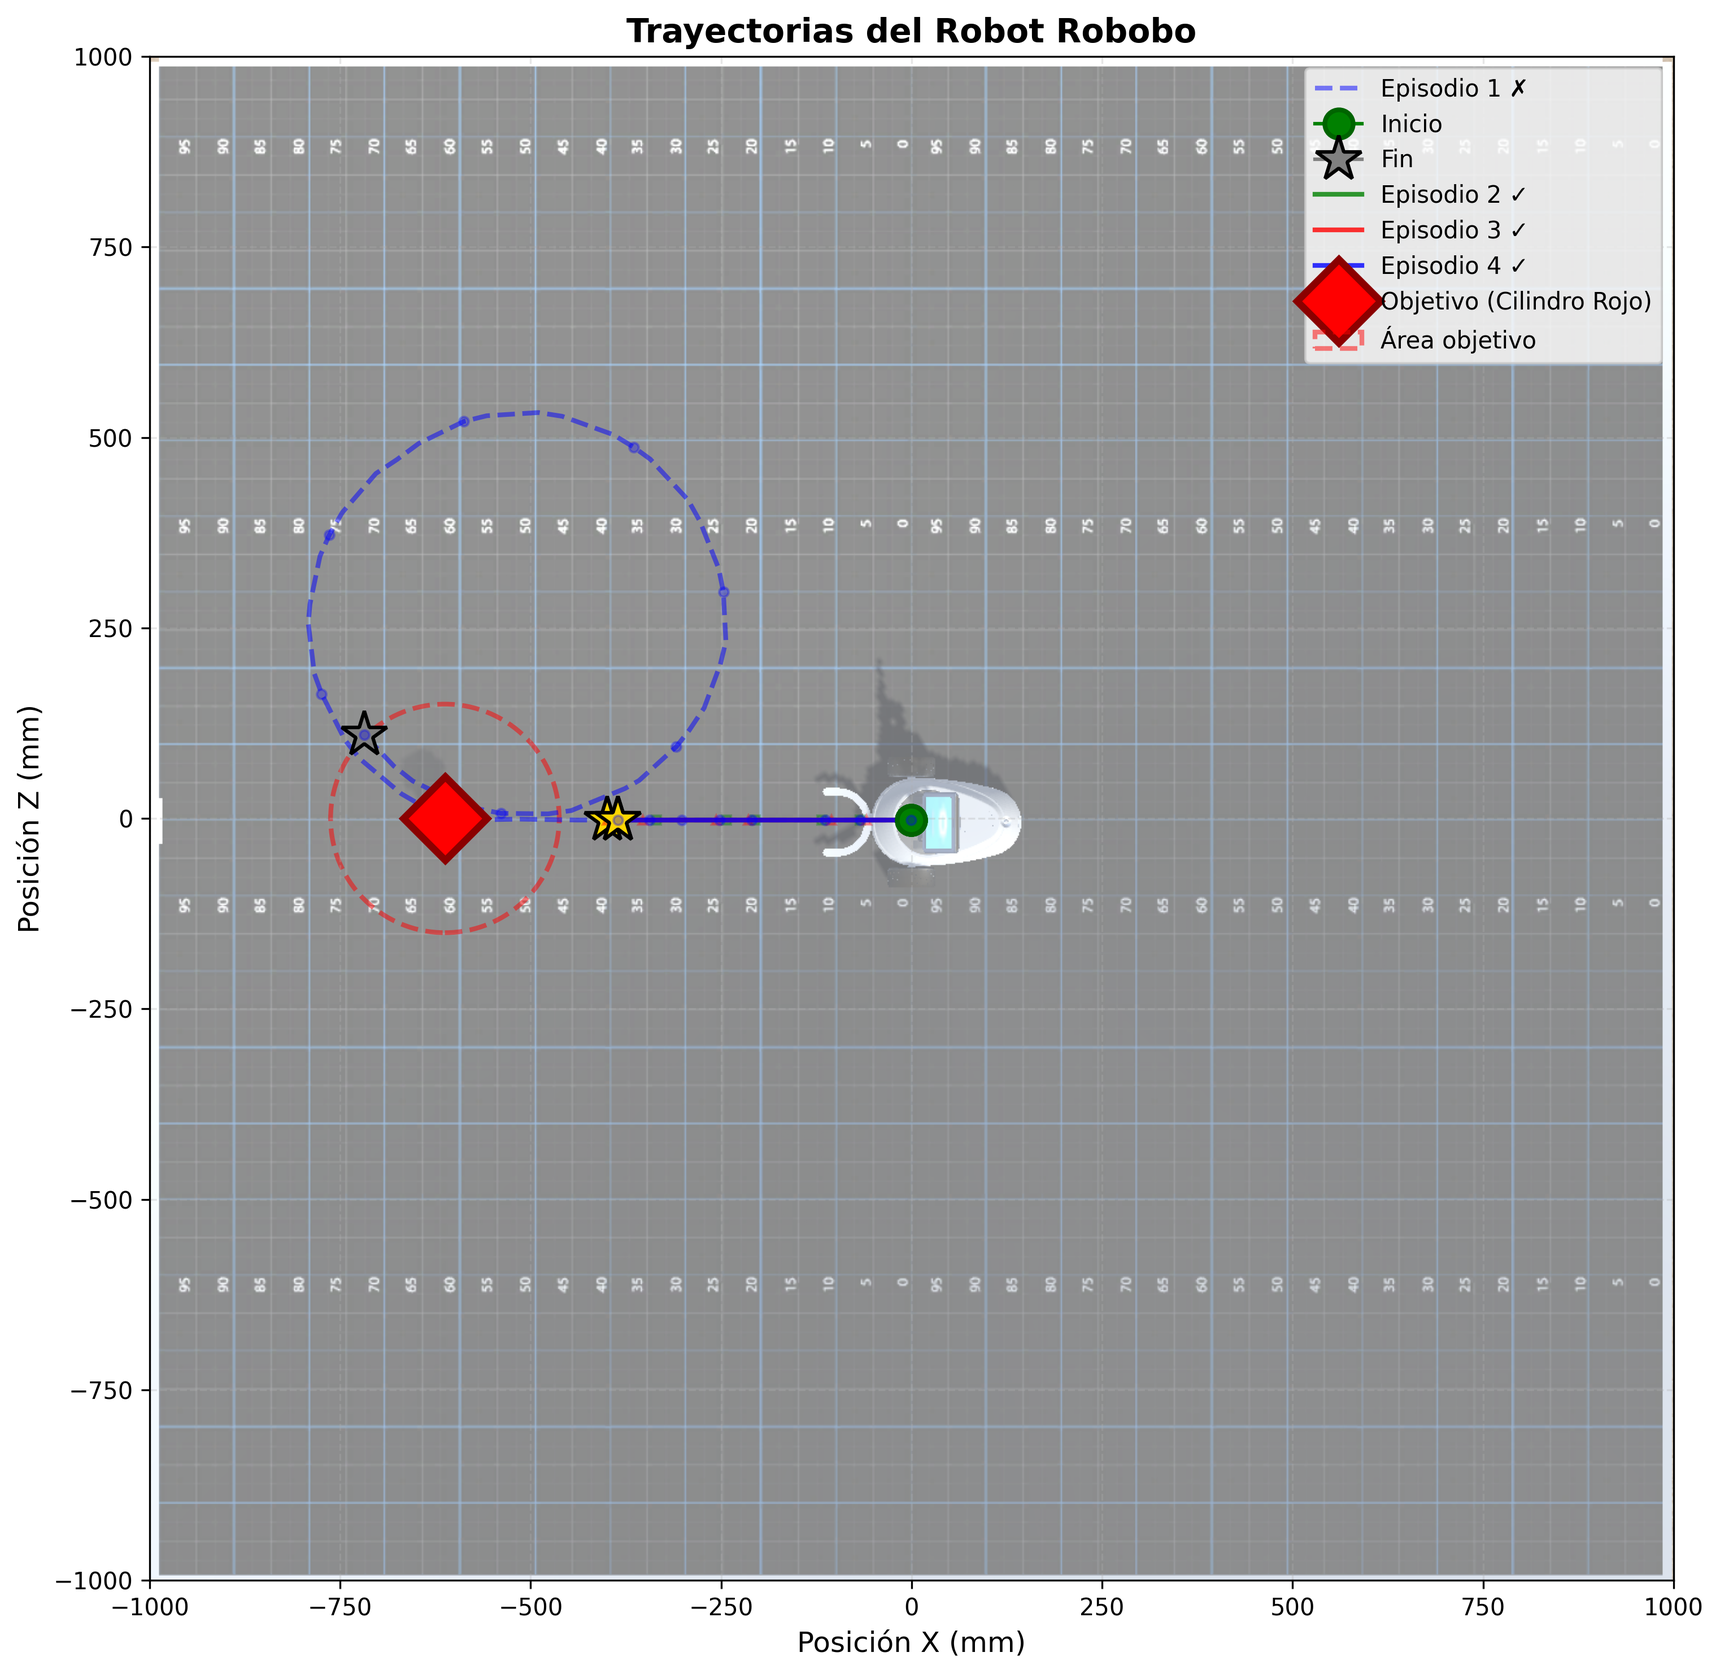
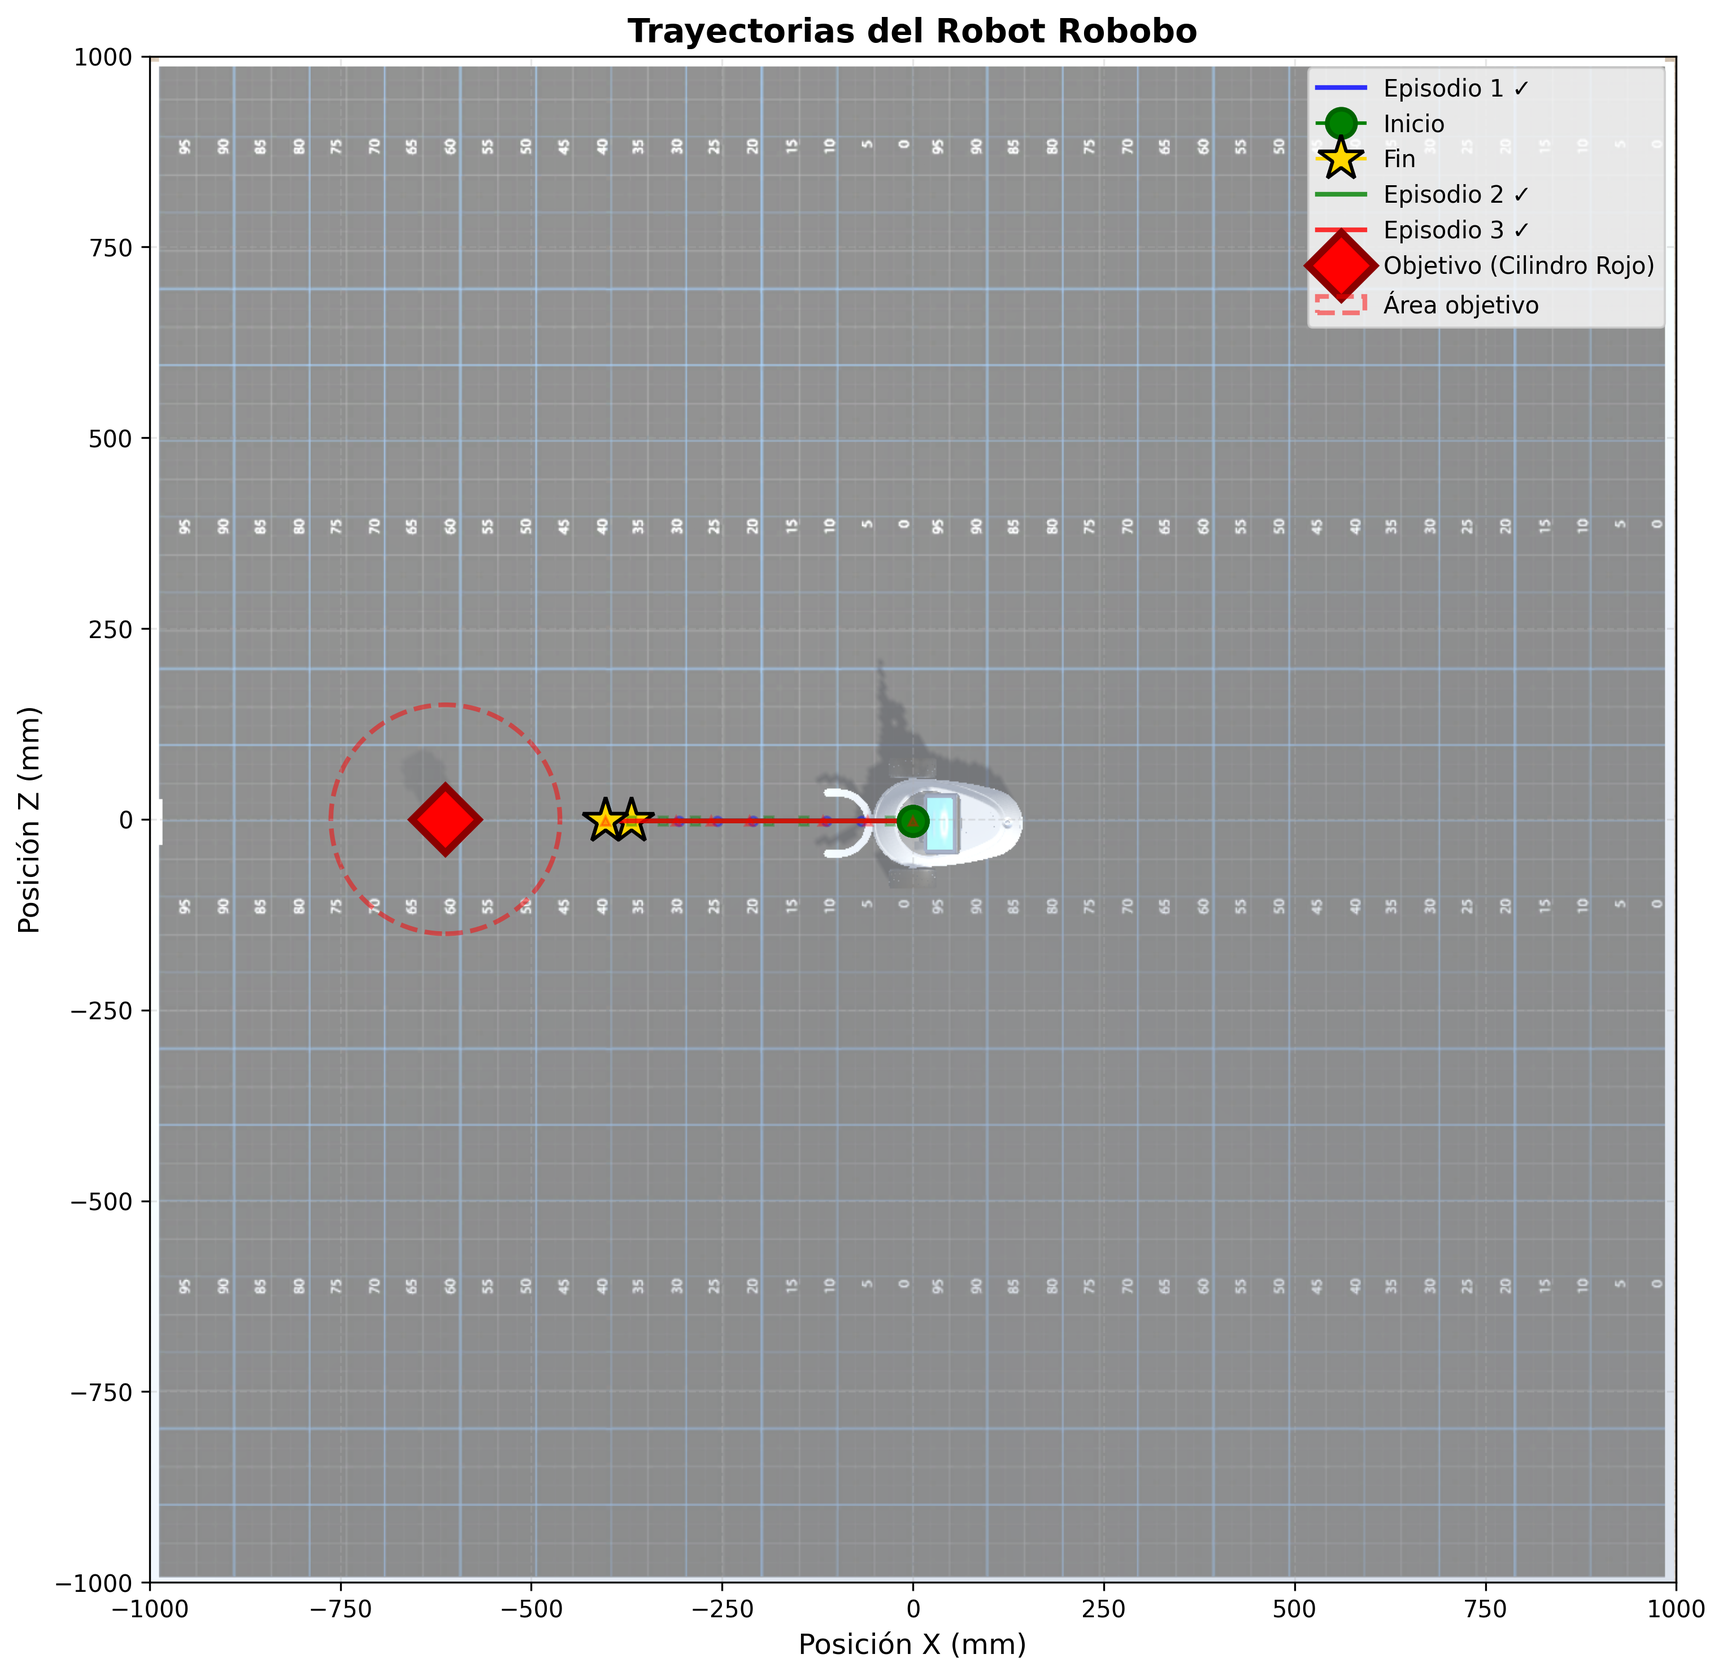
Correcciones codigo

diff --git a/practica2/p23/neat_train_232.py b/practica2/p23/neat_train_232.py
@@ -9,7 +9,7 @@ from main_neat_avoid_232 import RoboboNEATAvoidEnv23
 
 # === Configuración de directorios ===
 timestamp = datetime.now().strftime("%Y%m%d_%H%M%S")
-log_dir = f"practica2/2.3/neat_logs_2.3.2/{timestamp}/"
+log_dir = f"practica2/p23/neat_logs_2.3/{timestamp}/"
 models_dir = f"{log_dir}models/"
 graphs_dir = f"{log_dir}graphs/"
 os.makedirs(models_dir, exist_ok=True)
@@ -71,10 +71,10 @@ def eval_genome(genome, config):
         if unique_actions <= 2:
             total -= 30.0
             
-        print(f"   ✅ Fitness: {total:.2f} | Acciones únicas: {unique_actions}/8")
+        print(f"Fitness: {total:.2f} | Acciones únicas: {unique_actions}/8")
             
     except Exception as e:
-        print(f"❌ Error evaluando genoma: {e}")
+        print(f"Error evaluando genoma: {e}")
         total = -100.0
     finally:
         try:
@@ -95,22 +95,22 @@ def eval_genomes(genomes, config):
     Imprime el fitness de cada individuo justo tras su evaluación.
     """
     for i, (gid, genome) in enumerate(genomes, start=1):
-        print(f"\n🚀 Evaluando individuo {i}/{len(genomes)} (ID {gid}) ...")
+        print(f"\nEvaluando individuo {i}/{len(genomes)} (ID {gid}) ...")
         try:
             genome.fitness = eval_genome(genome, config)
             # Asegurar que el fitness no sea None
             if genome.fitness is None:
                 genome.fitness = -200.0
-                print(f"⚠ Fitness None detectado, asignado: {genome.fitness:.2f}")
+                print(f"Fitness None detectado, asignado: {genome.fitness:.2f}")
             else:
-                print(f"✅ Resultado final individuo {gid}: Fitness = {genome.fitness:.2f}")
+                print(f"Resultado final individuo {gid}: Fitness = {genome.fitness:.2f}")
         except Exception as e:
-            print(f"❌ Error crítico evaluando genoma {gid}: {e}")
+            print(f"Error crítico evaluando genoma {gid}: {e}")
             genome.fitness = -200.0  # Asignar fitness muy bajo en caso de error
         print("-" * 60)
     
     # VERIFICACIÓN FINAL: Asegurar que TODOS los genomas tienen fitness válido
-    for gid, genome in genomes:
+    for gid, genome in genomes: 
         if genome.fitness is None:
             print(f" ALERTA: Genoma {gid} aún tiene fitness None. Asignando -200.0")
             genome.fitness = -200.0
@@ -167,49 +167,48 @@ def run(config_file, generations=10, previous_best_genome_path=None):
             
             # IMPORTANTE: Evaluar inmediatamente para evitar fitness None
             print(f"\n{'='*60}")
-            print(f"🔄 EVALUANDO GENOMA CARGADO (ID: {genome_id})...")
+            print(f"EVALUANDO GENOMA CARGADO (ID: {genome_id})...")
             print(f"{'='*60}")
             new_genome.fitness = eval_genome(new_genome, config)
             print(f"{'='*60}")
-            print(f"✅ GENOMA ANTERIOR EVALUADO: Fitness = {new_genome.fitness:.2f}")
+            print(f"GENOMA ANTERIOR EVALUADO: Fitness = {new_genome.fitness:.2f}")
             print(f"{'='*60}\n")
             
             # Añadir a la población (no reemplazar)
             p.population[genome_id] = new_genome
             
-            print(f"✅ Mejor genoma anterior añadido a la población inicial")
+            print(f"Mejor genoma anterior añadido a la población inicial")
             print(f"   Tamaño población actual: {len(p.population)} genomas\n")
         except Exception as e:
-            print(f"⚠ Error al cargar genoma anterior: {e}")
+            print(f"Error al cargar genoma anterior: {e}")
             print("Continuando sin genoma previo...")
             import traceback
             traceback.print_exc()
     
-    # CRÍTICO: Evaluar toda la población inicial para evitar fitness None
-    print("\n🔄 Evaluando población inicial completa...")
+
+    print("\nEvaluando población inicial completa...")
     initial_genomes = list(p.population.items())
     for gid, genome in initial_genomes:
         if genome.fitness is None:
             # Identificar si es el genoma cargado
             if gid == loaded_genome_id:
-                print(f"  ⏭ Genoma {gid} (CARGADO) ya evaluado - saltando")
+                print(f"Genoma {gid} (CARGADO) ya evaluado - saltando")
                 continue
             genome.fitness = eval_genome(genome, config)
-            print(f"  ✅ Genoma {gid} evaluado: Fitness = {genome.fitness:.2f}")
-    print("✅ Población inicial completamente evaluada\n")
+            print(f"Genoma {gid} evaluado: Fitness = {genome.fitness:.2f}")
+    print("Población inicial completamente evaluada\n")
     
-    # CRÍTICO: Re-especiar después de añadir el genoma cargado
     if loaded_genome_id is not None:
-        print("🔄 Re-especiando población con genoma cargado...")
+        print("Re-especiando población con genoma cargado...")
         p.species.speciate(config, p.population, p.generation)
-        print("✅ Especiación actualizada\n")
+        print("Especiación actualizada\n")
     
     p.add_reporter(neat.StdOutReporter(True))
     stats = neat.StatisticsReporter()
     p.add_reporter(stats)
     p.add_reporter(neat.Checkpointer(5, filename_prefix=f"{models_dir}neat-checkpoint-"))
 
-    print("\n🧠 Iniciando evolución con NEAT (Práctica 2.3)...")
+    print("\nIniciando evolución con NEAT (Práctica 2.3)...")
     print(f"Generaciones: {generations}")
     print(f"Tamaño población inicial: {config.pop_size}")
     print(f"Elitism: {config.reproduction_config.elitism}")
@@ -220,8 +219,8 @@ def run(config_file, generations=10, previous_best_genome_path=None):
     with open(f"{models_dir}best_genome.pkl", "wb") as f:
         pickle.dump(winner, f)
 
-    print("\n✅ Evolución completada!")
-    print(f"🏆 Mejor fitness alcanzado: {winner.fitness:.2f}")
+    print("\nEvolución completada!")
+    print(f"Mejor fitness alcanzado: {winner.fitness:.2f}")
 
     with open(f"{log_dir}stats.pkl", "wb") as f:
         pickle.dump(stats, f)
@@ -232,11 +231,10 @@ def run(config_file, generations=10, previous_best_genome_path=None):
 # === MAIN ===
 if __name__ == "__main__":
   
-    config_path = "practica2/2.3/config-feedforwardmod"
+    config_path = "practica2/p23/config-feedforwardmod"
     if not os.path.exists(config_path):
         raise FileNotFoundError(f"No se encuentra config: {config_path}")
 
-    previous_best = "practica2/2.3/neat_logs_2.3.2/20251106_160516/models/best_genome_extracted.pkl"
-    # previous_best = "practica2/2.3/neat_logs_2.3.2/20251106_123456/models/best_genome.pkl"
+    previous_best = "practica2/p23/neat_logs_2.3.2/20251106_160516/models/best_genome_extracted.pkl"
     
     run(config_path, generations=10, previous_best_genome_path=previous_best)

diff --git a/practica2/p22/main_neat.py b/practica2/p22/main_neat.py
@@ -28,7 +28,6 @@ class RoboboNEATEnv(gym.Env):
         self.robobo.setActiveBlobs(red=True, green=False, blue=False, custom=False)
         self.sim.setRobotLocation(0, {'x': -1000.0, 'y': 39.0, 'z': -400.0})
 
-        # NEAT necesita entradas continuas (no estados discretos)
         # Entradas: [blob_x, blob_size, ir_front_c, ir_front_l, ir_front_r]
         self.observation_space = spaces.Box(
             low=np.array([0.0, 0.0, 0.0, 0.0, 0.0]),
@@ -153,7 +152,7 @@ class RoboboNEATEnv(gym.Env):
         
         if terminated:
             print("¡OBJETIVO ALCANZADO!")
-            reward += 100  # Bonus por completar (reducido de 500 para mejor gradiente)
+            reward += 100  # Bonus por completar
         
         # Verificar condiciones de terminación por tiempo
         truncated = self.steps >= self.max_steps
@@ -185,7 +184,7 @@ class RoboboNEATEnv(gym.Env):
 
         reward = 0.0
         
-        # Recompensa base inversamente proporcional a la distancia (más agresiva)
+        # Recompensa base inversamente proporcional a la distancia 
         max_distance = 2000.0
         distance_reward = 25.0 * (1.0 - min(distance / max_distance, 1.0))
         reward += distance_reward
@@ -200,22 +199,22 @@ class RoboboNEATEnv(gym.Env):
             mega_bonus = (250 - distance) / 10.0  # Hasta +25 puntos adicionales
             reward += mega_bonus
         
-        # Recompensa por ver el blob (crítico para orientación)
+        # Recompensa por ver el blob
         if blob.size > self.BLOB_SIZE_MIN:
             reward += 8.0  # Aumentado de 5.0
             
             # Recompensa progresiva por tamaño (proximidad visual)
-            size_reward = min(blob.size / 25.0, 15.0)  # Máximo 15 puntos (antes 10)
+            size_reward = min(blob.size / 25.0, 15.0)  # Máximo 15 puntos
             reward += size_reward
             
-            # Recompensa crítica por centrar el blob (navegación correcta)
+            # Recompensa crítica por centrar el blob 
             center_error = abs(blob.posx - 50.0)
             if center_error < 10:
-                reward += 10.0  # Muy centrado (antes 8.0)
+                reward += 10.0  # Muy centrado
             elif center_error < 20:
-                reward += 5.0   # Bastante centrado (antes 4.0)
+                reward += 5.0   # Bastante centrado
             elif center_error < 30:
-                reward += 2.5   # Algo centrado (antes 2.0)
+                reward += 2.5   # Algo centrado
             else:
                 # Penalización progresiva por descentrado
                 reward -= center_error / 25.0
@@ -224,7 +223,7 @@ class RoboboNEATEnv(gym.Env):
             # Penalización moderada si no ve el objetivo
             reward -= 5.0
         
-        # Penalización por obstáculos (evitar colisiones)
+        # Penalización por obstáculos
         if ir_front > self.OBSTACLE_THRESHOLD_FRONT and blob.size < self.BLOB_SIZE_GOAL:
             reward -= 10.0  # Aumentado de 8.0
         

diff --git a/practica2/p23/main_neat_avoid_232.py b/practica2/p23/main_neat_avoid_232.py
@@ -37,7 +37,7 @@ class RoboboNEATAvoidEnv23(gym.Env):
         self.max_steps = max_steps
 
   
-        self.OBSTACLE_THRESHOLD_FRONT = 40   #
+        self.OBSTACLE_THRESHOLD_FRONT = 40  
         self.OBSTACLE_THRESHOLD_SIDE  = 300
         self.BLOB_SIZE_MIN            = 2
         self.BLOB_SIZE_GOAL           = 300
@@ -104,7 +104,6 @@ class RoboboNEATAvoidEnv23(gym.Env):
         blob_size = min(blob.size, 500.0)
 
         state = np.array([blob_x, blob_size, ir_c, ir_l, ir_r], dtype=np.float32)
-        # print("Estado:", state) 
         return state
 
     def _is_at_goal(self):
@@ -169,7 +168,7 @@ class RoboboNEATAvoidEnv23(gym.Env):
         # Terminación
         terminated = self._is_at_goal()
         if terminated:
-            print("🎯 ¡OBJETIVO ALCANZADO! 🎯")
+            print("¡OBJETIVO ALCANZADO!")
             reward += 500
 
         truncated = self.steps >= self.max_steps
@@ -232,14 +231,14 @@ class RoboboNEATAvoidEnv23(gym.Env):
                 # Penalización fuerte si no ve el objetivo
                 reward -= 1.0
             
-            # Penalización por estar muy cerca de obstáculos (excepto el objetivo)
+            # Penalización por estar muy cerca de obstáculos
             if ir_front > self.OBSTACLE_THRESHOLD_FRONT:
-                reward += 0.05
+                reward -= 0.05
             
-            # Penalización muy pequeña por cada paso (menos énfasis en rapidez)
+            # Penalización muy pequeña por cada paso
             reward -= 0.05
 
-            # Recompensa por acercarse al objetivo (menor distancia)
+            # Recompensa por acercarse al objetivo
             if distance > 0:
                 reward += 500.0 / distance  # Más cerca = mayor recompensa
 

diff --git a/practica2/test3.py b/practica2/test3.py
@@ -18,18 +18,18 @@ from p23.main_ppo import RoboboEnv # entorno AR
 # CONFIG
 # ============================================================
 
-GENOME_PATH = os.path.join(os.path.dirname(__file__), 'p23', 'neat_logs_2.3.2', 'definitivo', 'models', 'best_genome_extracted.pkl')
+GENOME_PATH = os.path.join(os.path.dirname(__file__), 'p23', 'neat', 'models', 'best_genome_extracted.pkl')
 
 CONFIG_PATH = os.path.join(os.path.dirname(__file__), 'p23', 'config-feedforward')
 PPO_MODEL_PATH = os.path.join(os.path.dirname(__file__),'p23', 'best_model.zip')
 
 NUM_EPISODES = 3
 MAX_STEPS = 300
-DIST_THRESHOLD = 1000.0  # 🔧 Cambia este valor a base de pruebas
+DIST_THRESHOLD = 1000.0  # Cambia este valor a base de pruebas
 RENDER = False
 
 output_path = os.path.join(os.path.dirname(__file__), 'test_results_2.3')
-background_image = os.path.join(os.path.dirname(__file__), 'p23', 'entorno3.png')  # Puedes especificar una ruta aquí si tienes imagen
+background_image = os.path.join(os.path.dirname(__file__), 'test_results_2.3', 'entorno3.png')  # Puedes especificar una ruta aquí si tienes imagen
 
 
 # ============================================================

diff --git a/practica2/test1.py b/practica2/test1.py
@@ -14,11 +14,11 @@ import os
 import neat_test
 from p21.main_neat import RoboboNEATEnv
 
-genome_path = os.path.join(os.path.dirname(__file__), 'p21', 'neat_logs_2.1', 'ultimo', 'models', 'best_genome.pkl')
+genome_path = os.path.join(os.path.dirname(__file__), 'p21', 'neat', 'models', 'best_genome.pkl')
 num_episodes = 3
 config_path = os.path.join(os.path.dirname(__file__), 'p21', 'config-feedforward')
 output_folder = os.path.join(os.path.dirname(__file__), 'test_results_2.1')
-background_image = os.path.join(os.path.dirname(__file__), 'p21', 'entorno1.png')  # Puedes especificar una ruta aquí si tienes imagen
+background_image = os.path.join(os.path.dirname(__file__), 'test_results_2.1', 'entorno1.png')  # Puedes especificar una ruta aquí si tienes imagen
 
 
 def main():

diff --git a/practica2/test2.py b/practica2/test2.py
@@ -10,11 +10,11 @@ import os
 import neat_test
 from p22.main_neat import RoboboNEATEnv
 
-genome_path = os.path.join(os.path.dirname(__file__), 'p22', 'neat_logs_2.2', 'ultimo', 'models', 'best_genome.pkl')
+genome_path = os.path.join(os.path.dirname(__file__), 'p22', 'neat', 'models', 'best_genome.pkl')
 num_episodes = 3
 config_path = os.path.join(os.path.dirname(__file__), 'p22', 'config-feedforward')
 output_folder = os.path.join(os.path.dirname(__file__), 'test_results_2.2')
-background_image = os.path.join(os.path.dirname(__file__), 'p22', 'entorno2.png')  # Puedes especificar una ruta aquí si tienes imagen
+background_image = os.path.join(os.path.dirname(__file__), 'test_results_2.2', 'entorno2.png')  # Puedes especificar una ruta aquí si tienes imagen
 
 
 def main():

diff --git a/practica2/neat_test.py b/practica2/neat_test.py
@@ -277,10 +277,8 @@ def test_genome_simple(genome_path, config_path, env_class, num_episodes,
                 goal_location = env.sim.getObjectLocation('CYLINDERMIDBALL')
                 goal_position = (goal_location['position']['x'], goal_location['position']['z'])
             except:
-                pass
-        else:
-            goal_location = env.sim.getObjectLocation('CYLINDERBALL')
-            goal_position = (goal_location['position']['x'], goal_location['position']['z'])
+                goal_location = env.sim.getObjectLocation('CYLINDERBALL')
+                goal_position = (goal_location['position']['x'], goal_location['position']['z'])
 
         # Guardar resultados
         total_rewards.append(total_reward)

diff --git a/practica2/p21/neat_train.py b/practica2/p21/neat_train.py
@@ -8,7 +8,7 @@ from main_neat import RoboboNEATEnv
 
 # Configuración de directorios
 timestamp = datetime.now().strftime("%Y%m%d_%H%M%S")
-log_dir = f"practica2/neat_logs_2.2/{timestamp}/"
+log_dir = f"p21/neat_logs_2.1{timestamp}/"
 models_dir = f"{log_dir}models/"
 graphs_dir = f"{log_dir}graphs/"
 
@@ -158,7 +158,7 @@ def plot_stats(stats, winner, config):
 
 if __name__ == '__main__':
     # Archivo de configuración
-    config_path = 'practica2/2.1/config-feedforward'
+    config_path = 'practica2/p21/config-feedforward'
 
     if not os.path.exists(config_path):
         print(f"Error: No se encuentra el archivo {config_path}")

diff --git a/practica2/p22/neat_train.py b/practica2/p22/neat_train.py
@@ -152,7 +152,7 @@ def plot_stats(stats, winner, config):
     print(f"Gráfica de aprendizaje guardada")
     plt.close()
     
-    # 3. Gráfica de especies
+    # 2. Gráfica de especies
     try:
         from neat.graphs import plot_species
         plot_species(stats, filename=f'{graphs_dir}especies.png')
@@ -163,7 +163,7 @@ def plot_stats(stats, winner, config):
 
 if __name__ == '__main__':
     # Archivo de configuración
-    config_path = 'practica2/2.2/config-feedforward'
+    config_path = 'practica2/p22/config-feedforward'
 
     
     if not os.path.exists(config_path):

diff --git a/practica2/codigo_aux/dibujar.py b/practica2/codigo_aux/dibujar.py
@@ -42,4 +42,4 @@ draw_net(
     prune_unused=False,     
     fmt="png"                 
 )
-print("✅ Red guardada como red_neat.png")
+print("Red guardada como red_neat.png")
